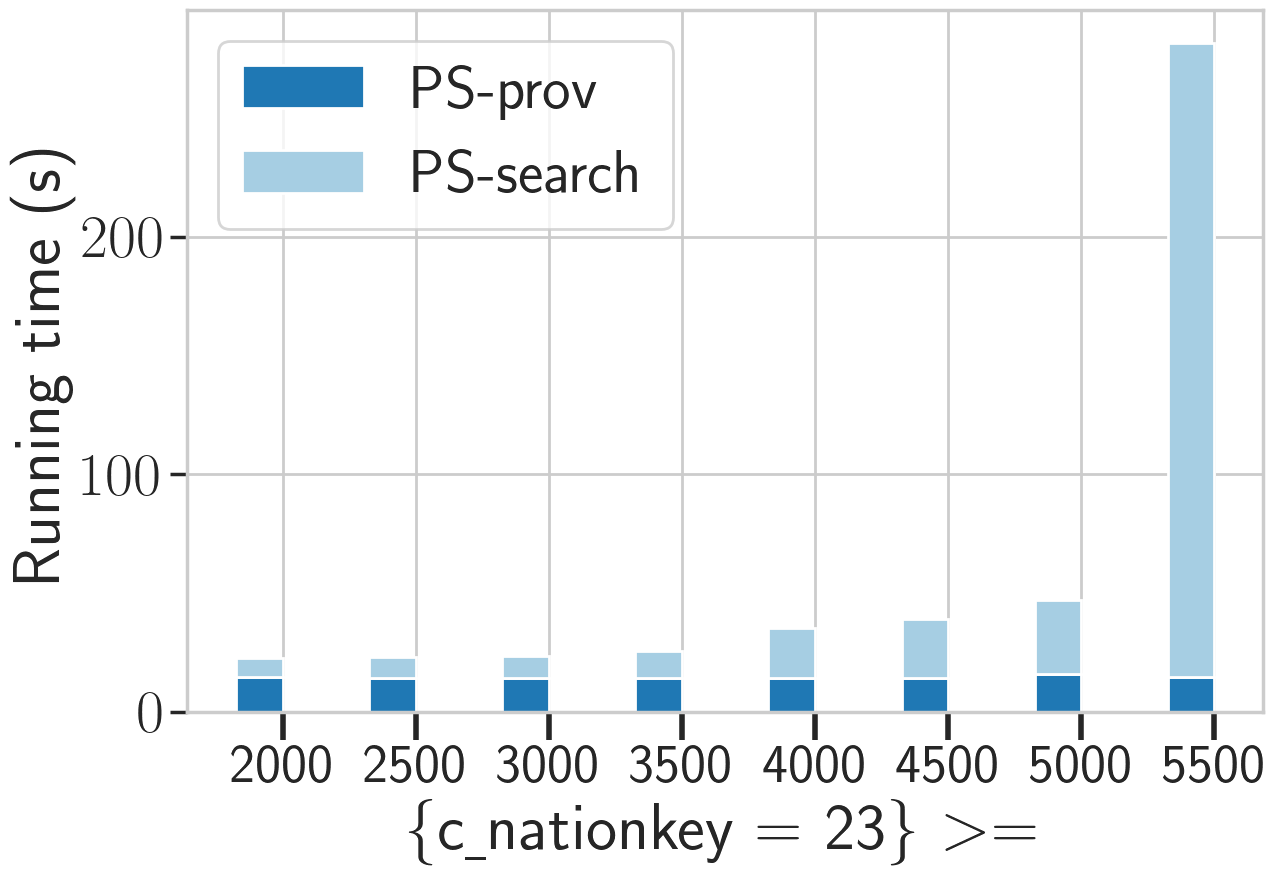
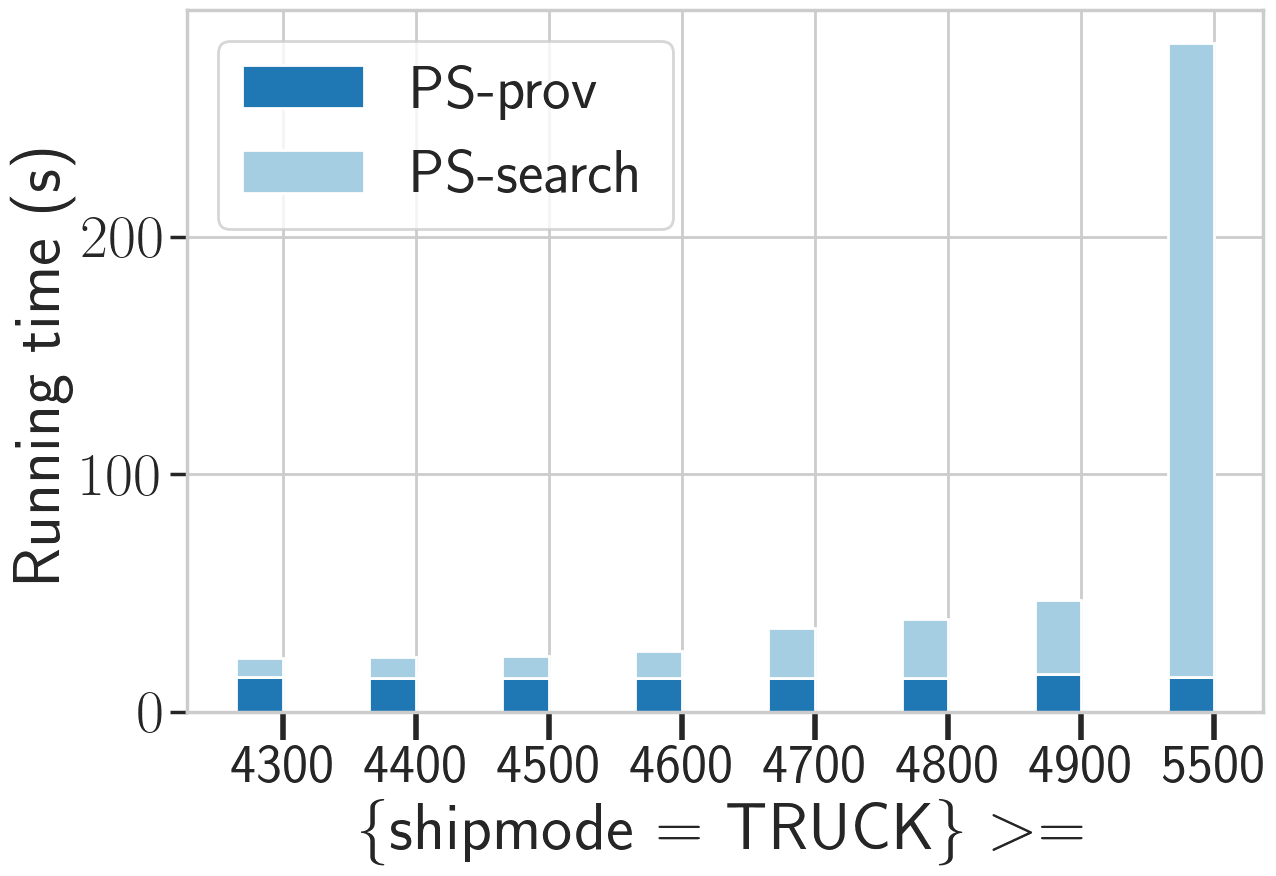
constraint change q3 refine

diff --git a/Experiment/TPCH/1G/constraint_change/q3_refine/fig.py b/Experiment/TPCH/1G/constraint_change/q3_refine/fig.py
@@ -59,7 +59,7 @@ def run(query, size, constraint):
             execution_timebl1.append(0)
             execution_timebl2.append(0)
     # x_list = [19941230, 19950115, 19950130, 19950215, 19950230, 19950315, 19950330, 19950415]
-    x_list = [2000, 2500, 3000, 3500, 4000, 4500, 5000, 5500]
+    x_list = [4300, 4400, 4500, 4600, 4700, 4800, 4900, 5500]
 
     print(x_list, execution_timeps1, execution_timeps2)
 
@@ -84,7 +84,7 @@ def run(query, size, constraint):
 
     plt.xticks(np.arange(0, 8) + bar_width/2, x_list, rotation=0, fontsize=40)
 
-    plt.xlabel(r'\{c\underline{ }nationkey = 23\} $>=$')
+    plt.xlabel(r'\{shipmode = TRUCK\} $>=$')
     plt.ylabel('Running time (s)')
     # plt.legend(loc='upper right', bbox_to_anchor=(0.98, 0.55))
     plt.legend(loc="best")
